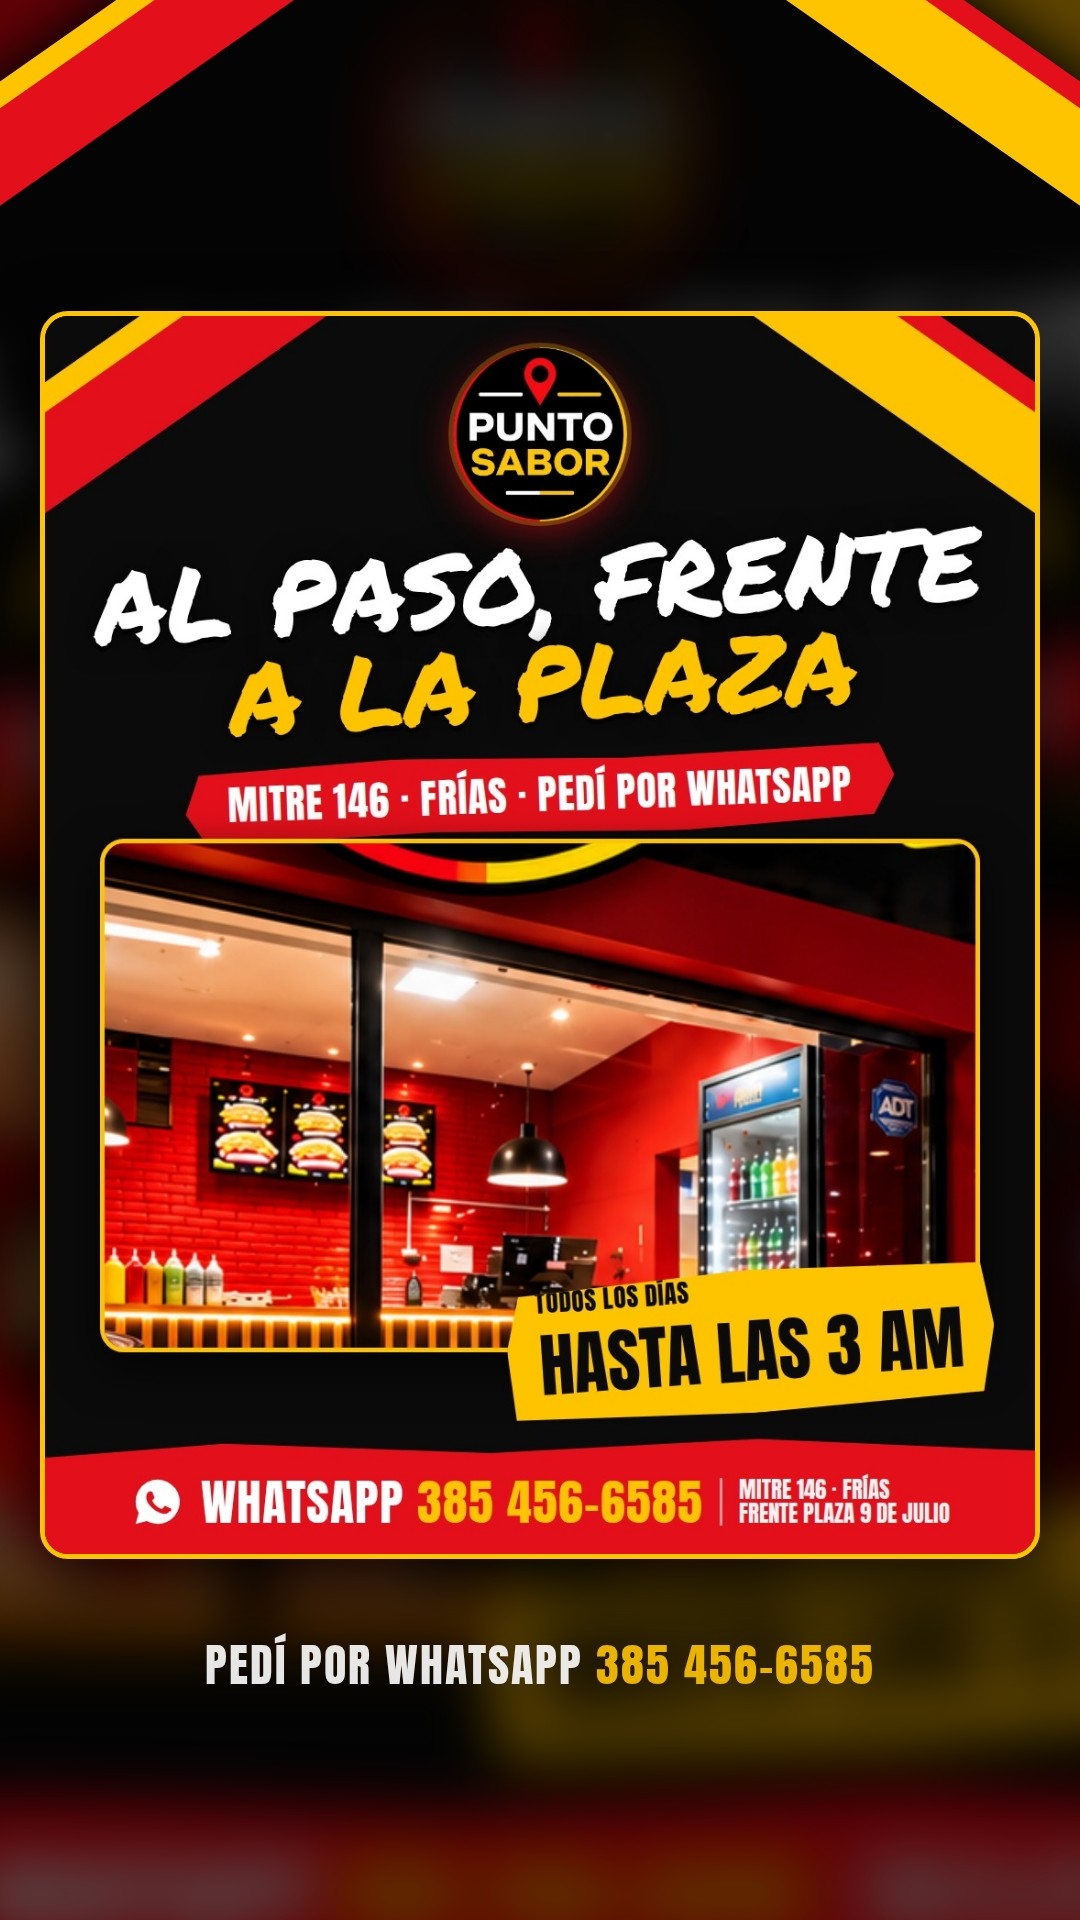
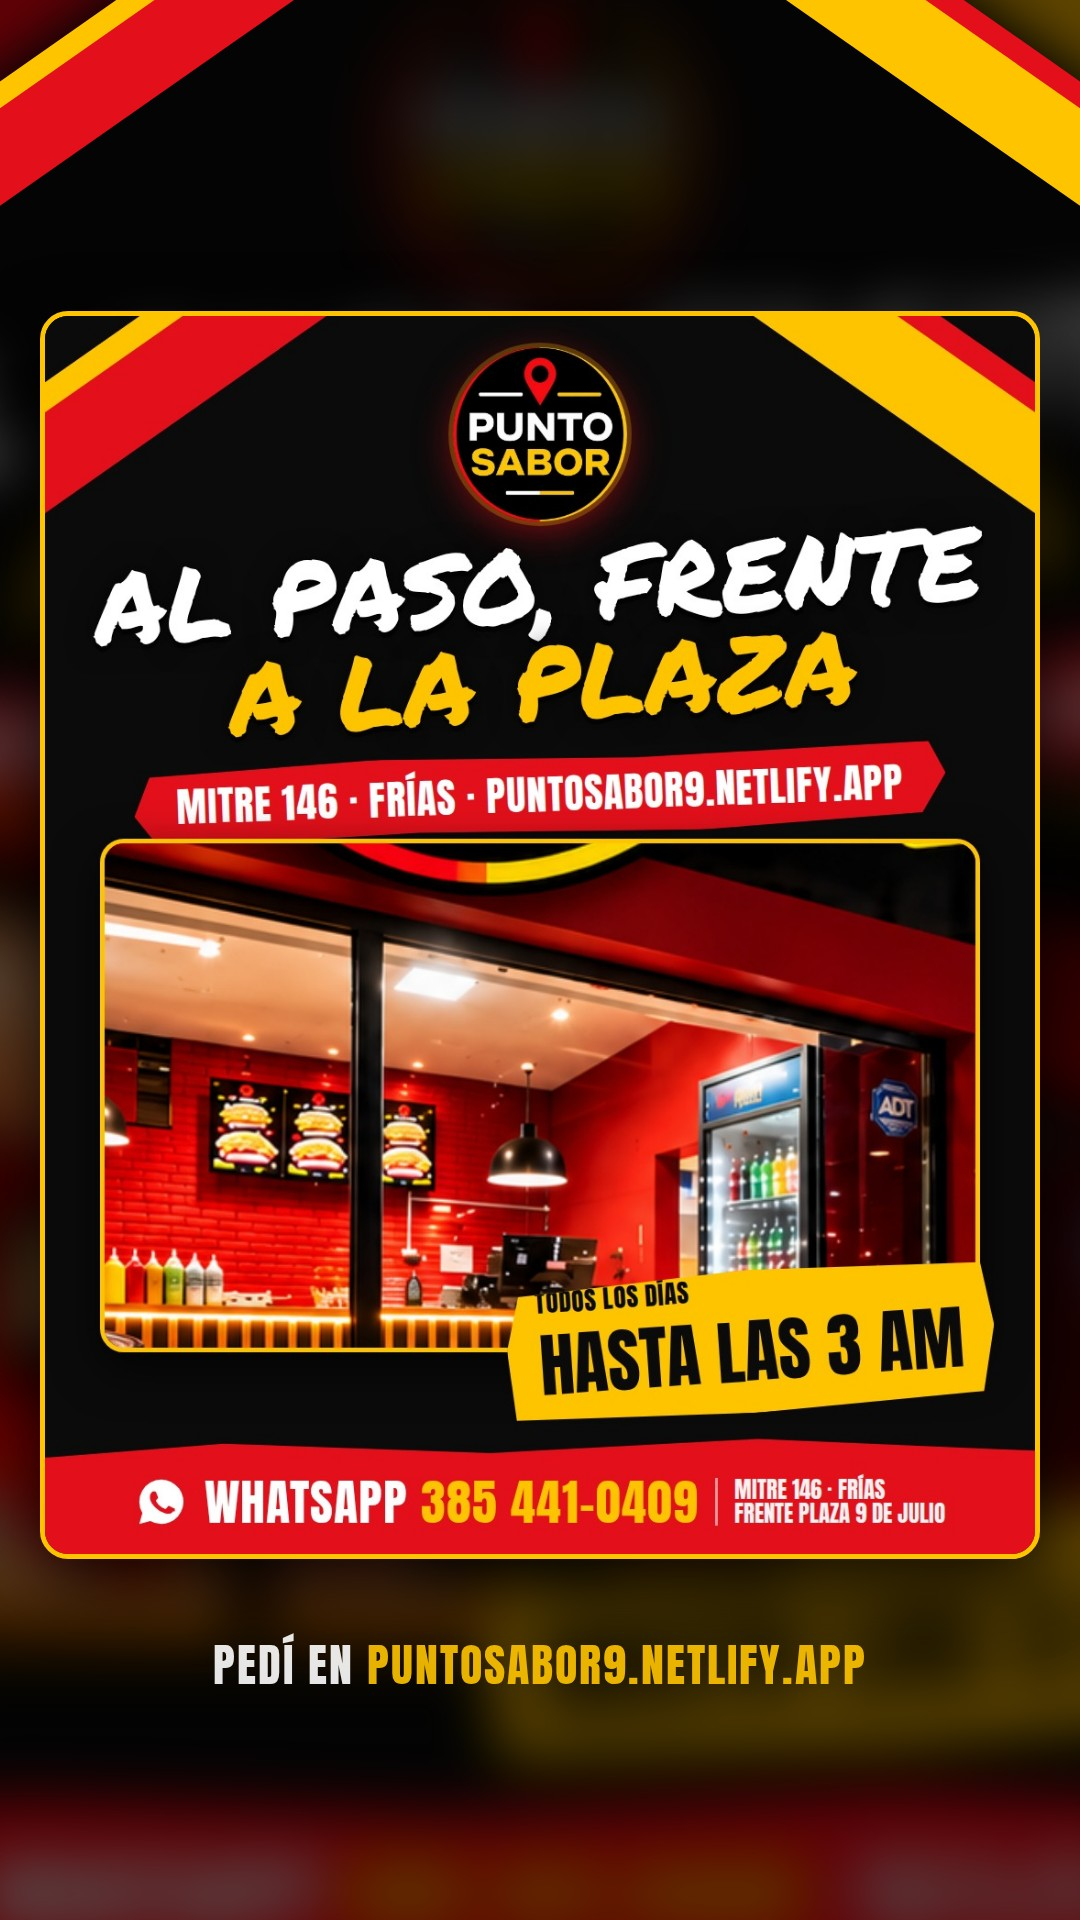
Point Meta ad to website and new WhatsApp number; make phone configurable in generator
Claude-Session: https://claude.ai/code/session_01DjeDmP6T7wRoqyzcL2Yr99

diff --git a/herramientas/imagenes/plantilla.html b/herramientas/imagenes/plantilla.html
@@ -98,7 +98,7 @@ function ajustar(el, max) {
 
 const TEL_SVG = `<svg viewBox="0 0 24 24" fill="#fff"><path d="M12 2a10 10 0 0 0-8.6 15.1L2 22l5-1.3A10 10 0 1 0 12 2zm5.3 14.2c-.2.6-1.3 1.2-1.8 1.2-.5.1-1 .1-1.7-.1a15 15 0 0 1-1.5-.6 11.9 11.9 0 0 1-4.6-4c-.3-.5-.9-1.5-.9-2.8s.7-2 1-2.3c.2-.3.5-.3.7-.3h.5c.2 0 .4 0 .6.5l.8 2c.1.1.1.3 0 .5l-.3.5-.4.4c-.1.2-.3.3-.1.6.2.3.8 1.3 1.6 2 1.1 1 2 1.3 2.3 1.4.3.1.5.1.6-.1l.9-1c.2-.3.4-.2.6-.1l1.9.9c.3.1.5.2.5.3.1.2.1.7-.1 1.3z"/></svg>`;
 
-window.renderPost = function (p, tamaños) {
+window.renderPost = function (p, tamaños, telefono = "385 456-6585") {
   const post = document.getElementById("post");
   let h = "";
   if (p.fondo) h += `<div class="fondo-foto" data-crop='${JSON.stringify(p.fondo)}'></div><div class="vineta"></div>`;
@@ -120,7 +120,7 @@ window.renderPost = function (p, tamaños) {
           <div class="txt"><div class="nombre">${r.nombre}</div><div class="monto">${r.monto}</div></div></div>`;
   for (const pr of p.precios || [])
     h += `<div class="precio" style="${pr.pos};font-size:${pr.size || 92}px">${pr.chico ? `<small>${pr.chico}</small>` : ""}${pr.texto}</div>`;
-  h += `<div class="pie">${TEL_SVG}<div class="tel">WHATSAPP <b>385 456-6585</b></div><div class="lugar">MITRE 146 · FRÍAS<br>FRENTE PLAZA 9 DE JULIO</div></div>`;
+  h += `<div class="pie">${TEL_SVG}<div class="tel">WHATSAPP <b>${telefono}</b></div><div class="lugar">MITRE 146 · FRÍAS<br>FRENTE PLAZA 9 DE JULIO</div></div>`;
   post.innerHTML = h;
 
   document.querySelectorAll("[data-crop]").forEach(el => recortar(el, JSON.parse(el.dataset.crop), tamaños));

diff --git a/herramientas/imagenes/historia.html b/herramientas/imagenes/historia.html
@@ -29,10 +29,11 @@
   <div class="fondo" id="fondo"></div>
   <div class="esquina b"></div><div class="esquina a"></div><div class="esquina d"></div><div class="esquina c"></div>
   <div class="caja"><img id="img" alt=""></div>
-  <div class="cta">PEDÍ POR WHATSAPP <b>385 456-6585</b></div>
+  <div class="cta" id="cta">PEDÍ POR WHATSAPP <b>385 456-6585</b></div>
 </div>
 <script>
-window.cargar = (src) => new Promise((ok) => {
+window.cargar = (src, cta) => new Promise((ok) => {
+  if (cta) document.getElementById("cta").innerHTML = cta;
   const img = document.getElementById("img");
   document.getElementById("fondo").style.backgroundImage = `url("${src}")`;
   img.onload = img.onerror = ok;

diff --git a/anuncios/anuncio-meta-punto-sabor.md b/anuncios/anuncio-meta-punto-sabor.md
@@ -1,100 +1,124 @@
-# Punto Sabor: anuncio pago en Facebook e Instagram
+# Punto Sabor: anuncio en Meta Ads (Facebook + Instagram)
 
-Anuncio listo para cargar en **Meta** (Facebook + Instagram) con tus imágenes, el link de tu Instagram y tu WhatsApp.
+Anuncio listo para cargar en el **Administrador de anuncios de Meta** (adsmanager.facebook.com).
 
+- **Página web (destino del anuncio):** https://puntosabor9.netlify.app/
+- **WhatsApp del anuncio:** 385 441-0409 · link directo `https://wa.me/5493854410409`
 - **Instagram:** https://www.instagram.com/punto.sabor9julio/
-- **WhatsApp (pedidos):** https://wa.me/5493854566585
-- **Facebook:** [pegá acá el link de la página de Punto Sabor]
+- **Dirección:** Mitre 146, frente a la plaza 9 de Julio, Frías
 
 ---
 
 ## 1. Imágenes
 
-Están en `anuncios/imagenes/`. Subí **todas**: Meta muestra cada una donde mejor rinde.
+Están en `anuncios/imagenes/` y llevan el WhatsApp **385 441-0409**.
 
-| Imagen | Para | Archivo |
+| Imagen | Formato | Archivo |
 |---|---|---|
-| A · "¿Hambre en Frías?" | Feed (4:5) | `anuncio-a-hambre-en-frias.jpg` |
-| B · "Promos para compartir" | Feed (4:5) | `anuncio-b-promos.jpg` |
-| C · "Al paso, frente a la plaza" | Feed (4:5) | `anuncio-c-al-paso.jpg` |
-| D · Tu imagen original del local | Feed (1:1) | `anuncio-d-local-original.png` |
-| Las mismas, en vertical | Historias y reels (9:16) | carpeta `9x16/` |
-
-**Recomendación:** arrancá con la **A** (la más general) y la **B** (precios concretos). Las promos con precio suelen traer más mensajes.
+| A · "¿Hambre en Frías?" | 4:5 (feed) | `anuncio-a-hambre-en-frias.jpg` |
+| B · "Promos para compartir" | 4:5 (feed) | `anuncio-b-promos.jpg` |
+| C · "Al paso, frente a la plaza" (con la web) | 4:5 (feed) | `anuncio-c-al-paso.jpg` |
+| D · Tu imagen original del local | 1:1 (feed) | `anuncio-d-local-original.png` |
+| A, B, C y D en vertical, con "Pedí en puntosabor9.netlify.app" | 9:16 (historias y reels) | carpeta `9x16/` |
 
 ---
 
-## 2. Textos del anuncio
+## 2. Textos
 
-### Texto principal (elegí uno, o cargá los 3 para que Meta pruebe cuál funciona mejor)
+### Texto principal (cargá los 3: Meta prueba cuál funciona mejor)
 
-**Opción 1: el antojo**
+**1 · El antojo**
 > ¿Hambre en Frías? 🍔🥩🍕
 > Hamburguesas, lomos, pizzas y milanesas al paso, frente a la plaza 9 de Julio.
 > 🛵 Delivery o retiro en Mitre 146
 > 🕒 Todos los días hasta las 3 AM
-> 📲 Pedí por WhatsApp: 385 456-6585
+> 👉 Mirá todo en nuestra página y pedí por WhatsApp: 385 441-0409
 
-**Opción 2: las promos**
+**2 · Las promos**
 > Promos para compartir en Punto Sabor 🙌
 > 🥩 2 lomos con papas: $22.000
 > 🍕 2 pizzas a elección: $21.000
 > 🍔 2 hamburguesas + papas: $15.000
-> Delivery o retiro al paso en Mitre 146, Frías. Escribinos y te lo preparamos.
+> Delivery o retiro al paso en Mitre 146, Frías. Tocá el botón y pedí.
 
-**Opción 3: la trasnoche**
+**3 · La trasnoche**
 > Son las 12 y tenés hambre. Nosotros, abiertos 😎
 > Punto Sabor: comida rápida al paso hasta las 3 AM, frente a la plaza 9 de Julio.
-> Pedí por WhatsApp y retirá o te lo llevamos.
+> Entrá a la página y pedí en un minuto.
 
-### Título (aparece en negrita, máximo 40 caracteres)
-- `Pedí por WhatsApp · hasta las 3 AM`
+### Títulos (máximo 40 caracteres)
+- `Pedí ahora · abierto hasta las 3 AM`
 - `Promos para compartir desde $15.000`
 - `Al paso, frente a la plaza 9 de Julio`
 
 ### Descripción
 - `Mitre 146, Frías · Delivery y retiro`
 
+### URL del sitio web
+```
+https://puntosabor9.netlify.app/?utm_source=meta&utm_medium=anuncio&utm_campaign=punto-sabor
+```
+La parte que va después del `?` no cambia nada en tu página. Sirve para que, si algún día le sumás estadísticas a la web, puedas ver cuántas visitas vinieron del anuncio. Si preferís, pegá el link solo: `https://puntosabor9.netlify.app/`
+
 ### Botón
-- Si el objetivo es **mensajes de WhatsApp**: **"Enviar mensaje de WhatsApp"**.
-- Si el objetivo es **visitas al perfil**: **"Visitar perfil de Instagram"**, que lleva a https://www.instagram.com/punto.sabor9julio/
+**"Pedir ahora"**. Si no aparece, usá **"Más información"**.
 
 ---
 
-## 3. Cómo cargarlo, paso a paso
+## 3. Cómo crear la campaña en Meta Ads, paso a paso
 
-**Opción fácil, desde el celular (Instagram):**
-1. Subí la imagen A o B como publicación normal.
-2. Tocá **Promocionar** debajo de la publicación.
-3. **Objetivo:** "Más mensajes" → WhatsApp (o "Más visitas al perfil", si querés llevar gente a tu Instagram).
-4. **Público:** "Crear el tuyo" → ubicación **Frías, Santiago del Estero + 10 km**, edad **18 a 55**.
-5. **Presupuesto y duración:** empezá con poco durante **7 días** y mirá cuántos mensajes llegan.
-6. Pagá y listo. Meta revisa el anuncio, normalmente en unas horas.
+Hacelo desde la PC en **adsmanager.facebook.com**, con la cuenta publicitaria de Punto Sabor.
 
-**Opción completa, desde la PC (Administrador de anuncios: adsmanager.facebook.com):**
-1. **Crear** → objetivo **Interacción** → conversión en **Apps de mensajes: WhatsApp**. Para llevar gente al perfil, usá **Tráfico** → **Perfil de Instagram**.
-2. **Conjunto de anuncios:**
-   - **Ubicación:** Frías, Santiago del Estero, radio de 10 km (sumá Loreto o San Pedro si hacés delivery ahí).
-   - **Edad:** 18 a 55. Meta no permite anuncios para menores.
-   - **Ubicaciones:** automáticas (Facebook, Instagram, historias y reels).
-   - **Horario:** si usás "presupuesto total", activá **Programación de anuncios** y mostralo de **19:00 a 02:00**, cuando la gente decide qué comer.
-3. **Anuncio:**
-   - Elegí **la página de Facebook y la cuenta de Instagram de Punto Sabor**, no tu perfil personal.
-   - Subí las imágenes A, B, C y D, y las de `9x16/` para historias y reels.
-   - Pegá los textos principales, el título y la descripción de arriba.
-   - Botón: **"Enviar mensaje de WhatsApp"** con el número 385 456-6585.
-4. **Publicar.**
+### Paso 1 · Campaña
+1. Tocá **+ Crear**.
+2. **Objetivo:** **Tráfico**, para llevar gente a la página web.
+   - Si preferís que te escriban directo, elegí **Interacción** → **Apps de mensajes** → **WhatsApp** con el 385 441-0409. Ver el paso 3b.
+3. **Nombre:** `Punto Sabor · Frías · Tráfico web`.
+4. Dejá desactivado "Presupuesto de la campaña Advantage" para controlar el gasto a mano. → **Siguiente**.
+
+### Paso 2 · Conjunto de anuncios (a quién y cuándo)
+1. **Ubicación de la conversión:** **Sitio web**.
+2. **Presupuesto:**
+   - **Total (recomendado):** te deja elegir el horario. Empezá con un monto chico durante **7 días**.
+   - **Diario:** más simple, pero sin control de horario.
+3. **Calendario:** de mañana a 7 días. Con presupuesto total, activá **"Publicar anuncios según una programación"** y marcá **de 19:00 a 02:00**, todos los días.
+4. **Público:**
+   - **Ubicaciones:** escribí **Frías, Santiago del Estero** → **+10 km**. Sumá otras localidades cercanas solo si llega tu delivery.
+   - **Edad:** **18 a 55**. Meta no permite anuncios para menores.
+   - **Sexo:** todos.
+   - **Segmentación detallada:** dejala vacía o abierta. En un pueblo, cuanto más amplio el público, mejor funciona.
+5. **Ubicaciones del anuncio:** **Ubicaciones Advantage+ (automáticas)**, para salir en Facebook, Instagram, historias y reels. → **Siguiente**.
+
+### Paso 3 · Anuncio
+1. **Identidad:** elegí **la página de Facebook de Punto Sabor** y la cuenta de Instagram **@punto.sabor9julio**. No uses tu perfil personal.
+2. **Formato:** **Imagen única o video**. Después de cargar, activá **"Variaciones"** para subir varias imágenes.
+3. **Contenido multimedia:** subí A, B, C y D. En **historias y reels**, cambiá cada imagen por su versión de la carpeta `9x16/`.
+4. **Texto principal:** pegá los 3 textos de arriba (botón "+ Agregar opción").
+5. **Título:** pegá los 3 títulos.
+6. **Descripción:** `Mitre 146, Frías · Delivery y retiro`.
+7. **Destino → URL del sitio web:** pegá la URL de arriba.
+8. **Botón:** **Pedir ahora**.
+9. Mirá la vista previa a la derecha (feed, historias, reels) → **Publicar**.
+
+### Paso 3b · Si elegiste mensajes de WhatsApp
+- El número **385 441-0409** tiene que estar **vinculado a la página de Facebook**: Configuración de la página → **WhatsApp** → agregar número y confirmar con el código que llega por SMS.
+- En el anuncio, el destino es **WhatsApp** y el botón **"Enviar mensaje de WhatsApp"**.
+- **Mensaje de bienvenida sugerido:** "¡Hola! 👋 Gracias por escribir a Punto Sabor. ¿Qué te preparamos hoy? ¿Delivery o retiro en Mitre 146?"
+
+### Paso 4 · Pago y revisión
+- Si es la primera vez, Meta pide un **método de pago** (tarjeta o el que tenga habilitado tu cuenta).
+- Meta **revisa el anuncio** antes de publicarlo. Normalmente tarda unas horas.
 
 ---
 
-## 4. Cómo saber si funciona
+## 4. Después de publicarlo
 
-- Después de 3 o 4 días, mirá **cuántos mensajes de WhatsApp** llegaron y **cuánto costó cada uno**.
-- Pausá la imagen que menos funciona y dejá la que más mensajes trae.
-- Preguntale a cada cliente nuevo: "¿Cómo nos conociste?". Así sabés si vino por el anuncio.
+- **Día 3 o 4:** en el Administrador de anuncios mirá los **clics en el enlace** y el **costo por clic**. En la columna de anuncios vas a ver qué imagen funciona mejor.
+- **Apagá la imagen que peor rinde** y dejá corriendo la mejor.
+- **Preguntale a cada cliente nuevo:** "¿Cómo nos conociste?". Así sabés si vino por el anuncio.
+- Si en 7 días funcionó, repetí la campaña los **viernes y sábados**, o en fechas fuertes como Halloween, el Día de la Madre o fin de año.
 
 ## 5. Tené en cuenta
 
-- Meta **revisa todos los anuncios** antes de publicarlos. Las imágenes y los textos siguen sus reglas: no hay promesas exageradas y los precios son los reales de tu carta.
-- Si cambian los precios, **actualizá el anuncio**: anunciar un precio que ya no existe genera reclamos.
-- Para que el botón de WhatsApp funcione, el número **385 456-6585** tiene que estar vinculado a la página de Facebook (Configuración de la página → WhatsApp).
+- **Revisá la página antes de pagar el anuncio.** No pude abrir puntosabor9.netlify.app desde acá, así que fijate que cargue bien en el celular, que tenga el número 385 441-0409 y los precios actualizados.
+- **Si cambian los precios,** actualizá el anuncio y la página.
